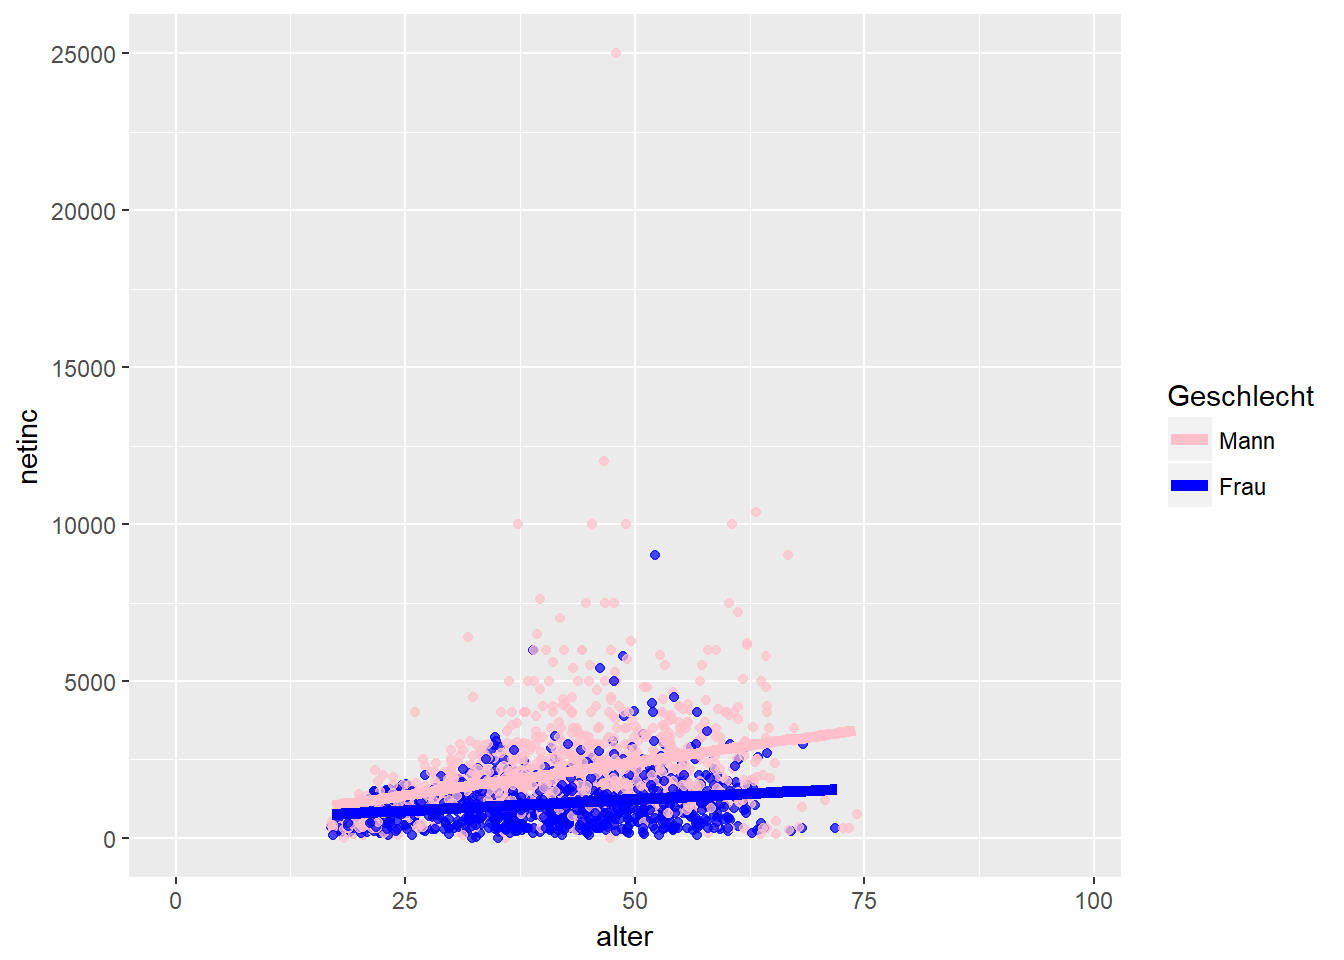
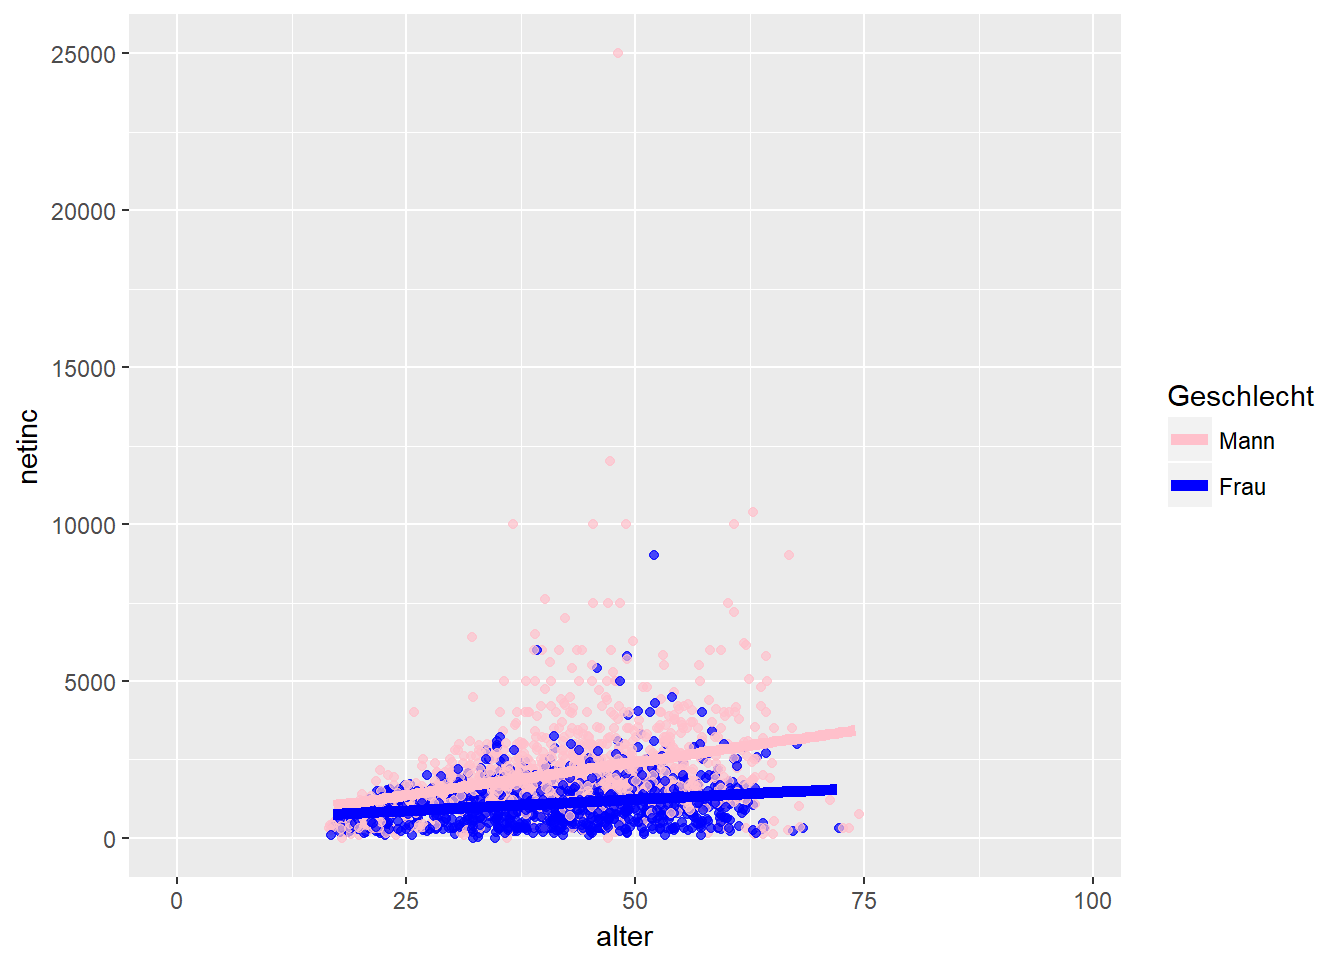
final commit marcello

Changed region(s): [[0.25, 0.625, 0.5938, 0.875]]

diff --git a/docs/datamanagement.html b/docs/datamanagement.html
@@ -318,12 +318,12 @@ div.tocify {
 <pre class="r"><code># Laden des Datensatzes
 library(readstata13)
 library(tidyverse)</code></pre>
-<pre><code>## -- Attaching packages ------------------------------------------------------------------ tidyverse 1.2.1 --</code></pre>
+<pre><code>## -- Attaching packages -------------------------------------------------------------------- tidyverse 1.2.1 --</code></pre>
 <pre><code>## v ggplot2 2.2.1     v purrr   0.2.4
 ## v tibble  1.4.2     v dplyr   0.7.4
-## v tidyr   0.8.0     v stringr 1.2.0
+## v tidyr   0.8.0     v stringr 1.3.0
 ## v readr   1.1.1     v forcats 0.3.0</code></pre>
-<pre><code>## -- Conflicts --------------------------------------------------------------------- tidyverse_conflicts() --
+<pre><code>## -- Conflicts ----------------------------------------------------------------------- tidyverse_conflicts() --
 ## x dplyr::filter() masks stats::filter()
 ## x dplyr::lag()    masks stats::lag()</code></pre>
 <pre class="r"><code>library(magrittr)</code></pre>
@@ -383,12 +383,12 @@ econ$netinc = recode(econ$tp7602,&quot;-3=NA;-2=NA;-1=NA&quot;)
 econ_data &lt;- econ[,c(&quot;netinc&quot;,&quot;alter&quot;,&quot;sex&quot;,&quot;contract&quot;,&quot;actual&quot;,&quot;trust&quot;,&quot;rely&quot;)]
 head(econ_data)</code></pre>
 <pre><code>##       netinc alter      sex contract actual trust rely
-## 12787   1300    23 männlich     37.5   37.5     2    2
-## 5026    1405    26 männlich     38.5   50.0     2    3
-## 12446   1609    36 weiblich     40.0   42.0     3    2
-## 9742     660    44 männlich     40.0   40.0     3    2
-## 5839      NA    60 weiblich     38.5   38.5     3    2
-## 13220   4500    45 männlich     40.0   60.0     2    3</code></pre>
+## 128       NA    62 männlich       NA     NA     2    2
+## 8305     900    41 weiblich     17.5     20     1    4
+## 7776      NA    68 männlich       NA     NA     1    4
+## 10670    200    20 weiblich      5.0      5     2    4
+## 1564      NA    19 weiblich       NA     NA     3    2
+## 14180     NA    72 männlich       NA     NA     1    4</code></pre>
 <pre class="r"><code># Delete NAs
 econ_data &lt;- na.omit(econ_data)
 
@@ -397,8 +397,8 @@ econ_data &lt;- na.omit(econ_data)
 hist(econ$netinc)</code></pre>
 <p><img src="datamanagement_files/figure-html/unnamed-chunk-2-1.png" width="672" /></p>
 <pre class="r"><code>quantile(econ_data$netinc)</code></pre>
-<pre><code>##      0%     25%     50%     75%    100% 
-##    0.00  800.00 1342.00 1896.25 7500.00</code></pre>
+<pre><code>##       0%      25%      50%      75%     100% 
+##     0.00   837.75  1365.00  1900.00 10000.00</code></pre>
 <pre class="r"><code>econ_data$inc_kat &lt;- NA
 econ_data$inc_kat [econ_data$netinc &lt; quantile(econ_data$netinc)[2]] &lt;- &quot;Q1&quot;
 econ_data$inc_kat [econ_data$netinc &gt;= quantile(econ_data$netinc)[2] &amp; econ_data$netinc &lt; quantile(econ_data$netinc)[3]] &lt;- &quot;Q2&quot;
@@ -408,7 +408,7 @@ econ_data$inc_kat [econ_data$netinc &gt;= quantile(econ_data$netinc)[4] ] &lt;- 
 table(econ_data$inc_kat)</code></pre>
 <pre><code>## 
 ##  Q1  Q2  Q3  Q4 
-## 421 453 437 437</code></pre>
+## 419 419 402 436</code></pre>
 </div>
 <div id="advanced-dm-the-tidyverse" class="section level1">
 <h1><span class="header-section-number">3</span> Advanced DM: The tidyverse</h1>
@@ -422,12 +422,12 @@ table(econ_data$inc_kat)</code></pre>
 
 head(econ_data)</code></pre>
 <pre><code>##   netinc alter      sex contract actual trust rely inc_kat alter_squared
-## 1   1300    23 männlich     37.5   37.5     2    2      Q2           529
-## 2   1405    26 männlich     38.5   50.0     2    3      Q3           676
-## 3   1609    36 weiblich     40.0   42.0     3    2      Q3          1296
-## 4    660    44 männlich     40.0   40.0     3    2      Q1          1936
-## 5   4500    45 männlich     40.0   60.0     2    3      Q4          2025
-## 6    800    29 männlich     38.0   38.0     4    1      Q2           841</code></pre>
+## 1    900    41 weiblich     17.5   20.0     1    4      Q2          1681
+## 2    200    20 weiblich      5.0    5.0     2    4      Q1           400
+## 3   1700    45 weiblich     20.0   20.0     2    4      Q3          2025
+## 4   2491    31 männlich     39.0   45.0     2    3      Q4           961
+## 5   1050    52 weiblich     30.0   30.0     2    3      Q2          2704
+## 6    550    24 weiblich     38.5   38.5     2    4      Q1           576</code></pre>
 </div>
 <div id="summarise" class="section level2">
 <h2><span class="header-section-number">3.2</span> Summarise</h2>
@@ -436,7 +436,7 @@ head(econ_data)</code></pre>
   summarise(mean = mean(alter,na.rm = T),
             sd = sd(alter,na.rm = T))</code></pre>
 <pre><code>##       mean       sd
-## 1 40.81636 11.63871</code></pre>
+## 1 40.85143 11.57321</code></pre>
 </div>
 <div id="group_by" class="section level2">
 <h2><span class="header-section-number">3.3</span> group_by</h2>
@@ -448,7 +448,7 @@ head(econ_data)</code></pre>
 <pre><code>## # A tibble: 1 x 2
 ##    mean    sd
 ##   &lt;dbl&gt; &lt;dbl&gt;
-## 1  40.8  11.6</code></pre>
+## 1  40.9  11.6</code></pre>
 </div>
 </div>
 

diff --git a/docs/linreg.html b/docs/linreg.html
@@ -458,8 +458,8 @@ summary(model3)</code></pre>
 <pre class="r"><code>library(stargazer)</code></pre>
 <pre><code>## 
 ## Please cite as:</code></pre>
-<pre><code>##  Hlavac, Marek (2018). stargazer: Well-Formatted Regression and Summary Statistics Tables.</code></pre>
-<pre><code>##  R package version 5.2.1. https://CRAN.R-project.org/package=stargazer</code></pre>
+<pre><code>##  Hlavac, Marek (2015). stargazer: Well-Formatted Regression and Summary Statistics Tables.</code></pre>
+<pre><code>##  R package version 5.2. http://CRAN.R-project.org/package=stargazer</code></pre>
 <pre class="r"><code># Nice Apa-Ready Output: 
 
 stargazer(model1,model2,model3,  #regression models 
